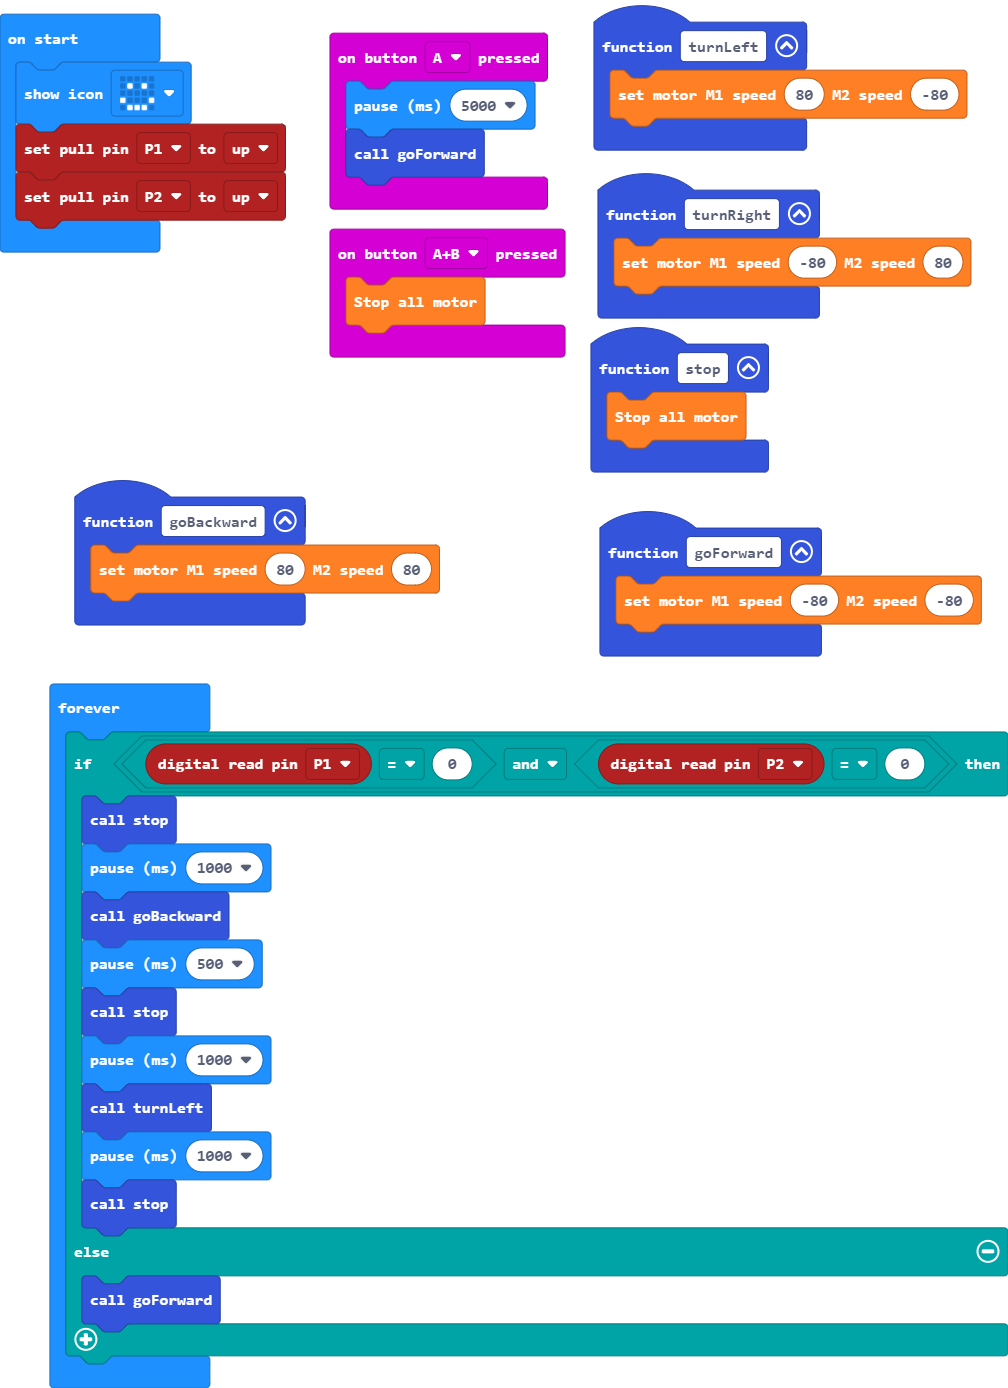
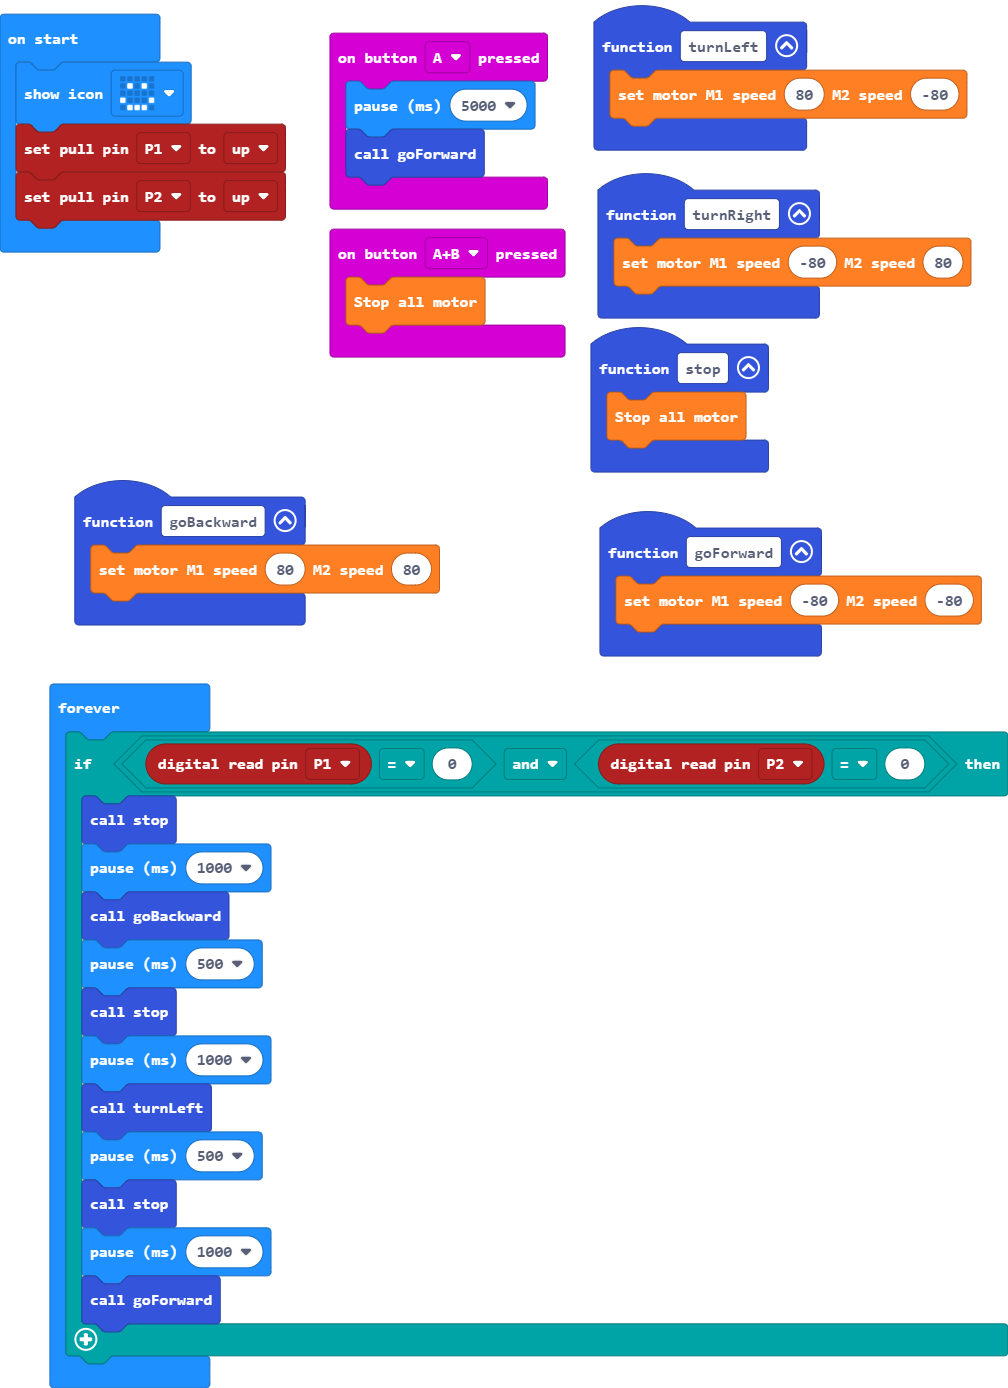
Update main.blocks, main.ts

Changed region(s): [[0.0615, 0.8055, 1.0, 0.9294]]

diff --git a/main.ts b/main.ts
@@ -32,9 +32,9 @@ basic.forever(function () {
         stop()
         basic.pause(1000)
         turnLeft()
-        basic.pause(1000)
+        basic.pause(500)
         stop()
-    } else {
+        basic.pause(1000)
         goForward()
     }
 })
